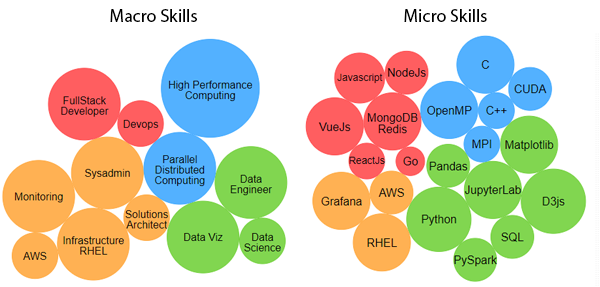
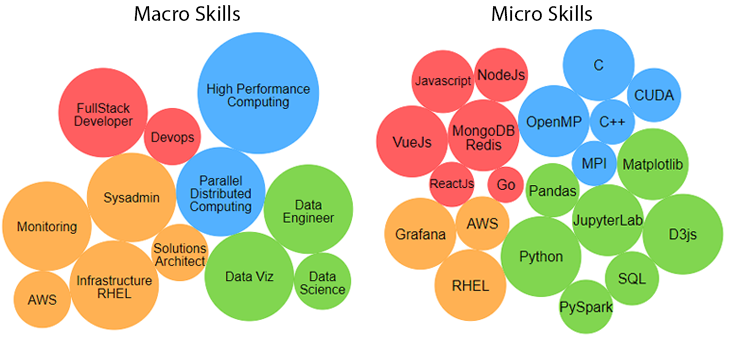
sync2

diff --git a/assets/static/d3js/crashlaker-micro-skills.js b/assets/static/d3js/crashlaker-micro-skills.js
@@ -1,54 +1,58 @@
 (function (){
-var width = 500, height = 400
+var width = 365, height = 300
 var svg = d3.select('#micro-skills')
             .attr('width', width)
             .attr('height', height)
+            //.style('border', '1px solid')
 
+var x = d3.scaleLinear().domain([0,500]).range([0,365])
+var ratio = 365/500
 var numNodes = 100
 var green = '#73d13d'
 var orange = '#ffa940'
 var red = '#ff4d4f'
 var blue = '#40a9ff'
+var d_fontsize = 13
 var nodes = [
     //{radius: 55, color: green, label: "Data Viz", group: 1}, // radius, color, text
     //{radius: 55, color: green, label: 'Data\nEngineer', group: 1}, // radius, color, text
     //{radius: 35, color: green, label: 'Data\nScience', group: 1}, // radius, color, text
-    {radius: 30, color: green, label: 'PySpark', group: 1}, // radius, color, text
-    {radius: 30, color: green, label: 'Pandas', group: 1}, // radius, color, text
-    {radius: 30, color: green, label: 'SQL', group: 1}, // radius, color, text
-    {radius: 40, color: green, label: 'JupyterLab', group: 1}, // radius, color, text
-    {radius: 40, color: green, label: 'Matplotlib', group: 1}, // radius, color, text
-    {radius: 45, color: green, label: 'Python', group: 1}, // radius, color, text
-    {radius: 45, color: green, label: 'D3js', group: 1}, // radius, color, text
+    {radius: ratio*30, color: green, label: 'PySpark', group: 1}, // radius, color, text
+    {radius: ratio*30, color: green, label: 'Pandas', group: 1}, // radius, color, text
+    {radius: ratio*30, color: green, label: 'SQL', group: 1}, // radius, color, text
+    {radius: ratio*40, color: green, label: 'JupyterLab', group: 1}, // radius, color, text
+    {radius: ratio*40, color: green, label: 'Matplotlib', group: 1}, // radius, color, text
+    {radius: ratio*45, color: green, label: 'Python', group: 1}, // radius, color, text
+    {radius: ratio*45, color: green, label: 'D3js', group: 1}, // radius, color, text
     //{radius: 35, color: orange, label: 'Solutions\nArchitect', group: 2}, // radius, color, text
     //{radius: 55, color: orange, label: 'Infrastructure\nRHEL', group: 2}, // radius, color, text
     //{radius: 55, color: orange, label: 'Sysadmin', group: 2}, // radius, color, text
     //{radius: 35, color: orange, label: 'AWS', group: 2}, // radius, color, text
-    {radius: 40, color: orange, label: 'RHEL', group: 2}, // radius, color, text
-    {radius: 30, color: orange, label: 'AWS', group: 2}, // radius, color, text
-    {radius: 40, color: orange, label: 'Grafana', group: 2}, // radius, color, text
+    {radius: ratio*40, color: orange, label: 'RHEL', group: 2}, // radius, color, text
+    {radius: ratio*30, color: orange, label: 'AWS', group: 2}, // radius, color, text
+    {radius: ratio*40, color: orange, label: 'Grafana', group: 2}, // radius, color, text
     //{radius: 55, color: red, label: 'FullStack\nDeveloper', group: 3}, // radius, color, text
     //{radius: 35, color: red, label: 'Devops', group: 3}, // radius, color, text
-    {radius: 20, color: red, label: 'Go', group: 3}, // radius, color, text
-    {radius: 35, fontsize: 14, color: red, label: 'Javascript', group: 3}, // radius, color, text
-    {radius: 25, fontsize: 14, color: red, label: 'ReactJs', group: 3}, // radius, color, text
-    {radius: 40, color: red, label: 'VueJs', group: 3}, // radius, color, text
-    {radius: 30, color: red, label: 'NodeJs', group: 3}, // radius, color, text
-    {radius: 40, color: red, label: 'MongoDB\nRedis', group: 3}, // radius, color, text
+    {radius: ratio*20, color: red, label: 'Go', group: 3}, // radius, color, text
+    {radius: ratio*35, fontsize: 12, color: red, label: 'Javascript', group: 3}, // radius, color, text
+    {radius: ratio*25, fontsize: 11, color: red, label: 'ReactJs', group: 3}, // radius, color, text
+    {radius: ratio*40, color: red, label: 'VueJs', group: 3}, // radius, color, text
+    {radius: ratio*30, color: red, label: 'NodeJs', group: 3}, // radius, color, text
+    {radius: ratio*40, color: red, label: 'MongoDB\nRedis', group: 3}, // radius, color, text
     //{radius: 55, color: blue, label: 'Parallel\nDistributed\nComputing', group: 4}, // radius, color, text
     //{radius: 75, color: blue, label: 'High Performance\nComputing', group: 4}, // radius, color, text
-    {radius: 40, color: blue, label: 'C', group: 4}, // radius, color, text
-    {radius: 25, color: blue, label: 'C++', group: 4}, // radius, color, text
-    {radius: 25, color: blue, label: 'MPI', group: 4}, // radius, color, text
-    {radius: 40, color: blue, label: 'OpenMP', group: 4}, // radius, color, text
-    {radius: 30, color: blue, label: 'CUDA', group: 4}, // radius, color, text
+    {radius: ratio*40, color: blue, label: 'C', group: 4}, // radius, color, text
+    {radius: ratio*25, color: blue, label: 'C++', group: 4}, // radius, color, text
+    {radius: ratio*25, color: blue, label: 'MPI', group: 4}, // radius, color, text
+    {radius: ratio*40, color: blue, label: 'OpenMP', group: 4}, // radius, color, text
+    {radius: ratio*30, color: blue, label: 'CUDA', group: 4}, // radius, color, text
 ]
 
 var group = {
-    1: [320,250], // data viz
-    2: [160,270], // infrastructure
-    3: [160,140], // development
-    4: [300,130], // hpc
+    1: [x(320),200], // data viz
+    2: [x(160),220], // infrastructure
+    3: [x(160),90], // development
+    4: [x(300),90], // hpc
 }
 
 
@@ -101,17 +105,17 @@ function ticked() {
         let v = d3.select(this)
                     .append('text')
                     .attr('x', 0)
-                    .attr('y', -10)
+                    .attr('y', -10*ratio)
                     .style('text-anchor', 'middle')
         let strarr = (d.label.includes('\n')) ? d.label.split('\n') : [d.label]
         if (strarr.length > 1)
-            v.attr('y', -8*(strarr.length))
+            v.attr('y', -(d_fontsize/2)*(strarr.length))
         //console.log(d)
         for (let part of strarr){
             v.append('tspan')
                 .attr('x', 0)
                 .attr('dy', '1em')
-                .attr('style', 'font: '+((d.fontsize != undefined) ? d.fontsize+'px sans-serif;' : '16px sans-serif'))
+                .attr('style', 'font: '+((d.fontsize != undefined) ? d.fontsize+'px sans-serif;' : d_fontsize+'px sans-serif'))
                 .text(part)
         }
     })

diff --git a/assets/static/d3js/crashlaker-macro-skills.js b/assets/static/d3js/crashlaker-macro-skills.js
@@ -1,34 +1,40 @@
 (function (){
-var width = 500, height = 400
+var width = 365, height = 300
 var svg = d3.select('#macro-skills')
             .attr('width', width)
             .attr('height', height)
+
+var x = d3.scaleLinear().domain([0,500]).range([0,365])
+var y = d3.scaleLinear().domain([0,500]).range([0,365])
+
+var ratio = 365/500
 
 var numNodes = 100
 var green = '#73d13d'
 var orange = '#ffa940'
 var red = '#ff4d4f'
 var blue = '#40a9ff'
+var d_fontsize = 14
 var nodes = [
-    {radius: 55, color: green, label: "Data Viz", group: 1}, // radius, color, text
-    {radius: 55, color: green, label: 'Data\nEngineer', group: 1}, // radius, color, text
-    {radius: 35, color: green, label: 'Data\nScience', group: 1}, // radius, color, text
-    {radius: 35, color: orange, label: 'Solutions\nArchitect', group: 2}, // radius, color, text
-    {radius: 55, color: orange, label: 'Infrastructure\nRHEL', group: 2}, // radius, color, text
-    {radius: 55, color: orange, label: 'Sysadmin', group: 2}, // radius, color, text
-    {radius: 55, color: orange, label: 'Monitoring', group: 2}, // radius, color, text
-    {radius: 35, color: orange, label: 'AWS', group: 2}, // radius, color, text
-    {radius: 55, color: red, label: 'FullStack\nDeveloper', group: 3}, // radius, color, text
-    {radius: 35, color: red, label: 'Devops', group: 3}, // radius, color, text
-    {radius: 55, color: blue, label: 'Parallel\nDistributed\nComputing', group: 4}, // radius, color, text
-    {radius: 75, color: blue, label: 'High Performance\nComputing', group: 4}, // radius, color, text
+    {radius: ratio*55, color: green, label: "Data Viz", group: 1}, // radius, color, text
+    {radius: ratio*55, color: green, label: 'Data\nEngineer', group: 1}, // radius, color, text
+    {radius: ratio*35, color: green, label: 'Data\nScience', group: 1}, // radius, color, text
+    {radius: ratio*35, fontsize: 12, color: orange, label: 'Solutions\nArchitect', group: 2}, // radius, color, text
+    {radius: ratio*55, color: orange, label: 'Infrastructure\nRHEL', group: 2}, // radius, color, text
+    {radius: ratio*55, color: orange, label: 'Sysadmin', group: 2}, // radius, color, text
+    {radius: ratio*55, color: orange, label: 'Monitoring', group: 2}, // radius, color, text
+    {radius: ratio*35, color: orange, label: 'AWS', group: 2}, // radius, color, text
+    {radius: ratio*55, color: red, label: 'FullStack\nDeveloper', group: 3}, // radius, color, text
+    {radius: ratio*35, color: red, label: 'Devops', group: 3}, // radius, color, text
+    {radius: ratio*55, color: blue, label: 'Parallel\nDistributed\nComputing', group: 4}, // radius, color, text
+    {radius: ratio*75, color: blue, label: 'High Performance\nComputing', group: 4}, // radius, color, text
 ]
 
 var group = {
-    1: [340,270], // data viz
-    2: [130,270], // infrastructure
-    3: [160,140], // dev
-    4: [300,140], // hpc
+    1: [x(340),220], // data viz
+    2: [x(130),200], // infrastructure
+    3: [x(160),90], // dev
+    4: [x(300),90], // hpc
 }
 
 
@@ -81,16 +87,18 @@ function ticked() {
         let v = d3.select(this)
                     .append('text')
                     .attr('x', 0)
-                    .attr('y', -10)
+                    .attr('y', -10*ratio)
                     .style('text-anchor', 'middle')
-                    .style('font', '16px sans-serif')
+                    .style('font', d_fontsize+'px sans-serif')
         let strarr = (d.label.includes('\n')) ? d.label.split('\n') : [d.label]
+        let fontsize = (d.fontsize != undefined) ? d.fontsize : d_fontsize
         if (strarr.length > 1)
-            v.attr('y', -8*(strarr.length))
+            v.attr('y', -(fontsize/2)*(strarr.length))
         for (let part of strarr){
             v.append('tspan')
                 .attr('x', 0)
                 .attr('dy', '1em')
+                .attr('style', 'font: '+fontsize+'px sans-serif')
                 .text(part)
         }
     })

diff --git a/about.html b/about.html
@@ -1,7 +1,7 @@
 ---
 layout: page
 title: About
-permalink: /about/
+permalink: /about
 ---
 
 
@@ -10,18 +10,25 @@ permalink: /about/
 
 <!--<svg id="front-panel"></svg>-->
 <!--
-<h3>Macro Skills</h3> 
-<svg id="macro-skills"></svg>
+<table>
+    <tr>
+        <td style="font-weight:400;font:16px sans-serif; text-align:center;">Macro Skills</td>
+        <td style="font-weight:400;font:16px sans-serif; text-align:center;">Micro Skills</td>
+    </tr>
+    <tr>
+        <td>
+            <svg id="macro-skills"></svg>
+        </td>
+        <td>
+            <svg id="micro-skills"></svg>
+        </td>
+    </tr>
+</table>
 
-<h3>Tool Skills</h3> 
-<svg id="micro-skills"></svg>
--->
-
-<!--<script src="/assets/static/d3js/crashlaker-front.js"></script>-->
-<!--
 <script type="text/javascript" src="//unpkg.com/d3@5.7.0/dist/d3.js"></script> 
 <script src="/assets/static/d3js/crashlaker-macro-skills.js"></script>
 <script src="/assets/static/d3js/crashlaker-micro-skills.js"></script>
 -->
 
+<!--<script src="/assets/static/d3js/crashlaker-front.js"></script>-->
 

diff --git a/index.html b/index.html
@@ -6,6 +6,25 @@ layout: default
 <div id="home">
   <h3>Blog</h3>
   <hr />
+    <table>
+        <tr>
+            <td style="font:16px sans-serif; text-align:center;font-weight:bold;">Macro Skills</td>
+            <td style="font:16px sans-serif; text-align:center;font-weight:bold;">Micro Skills</td>
+        </tr>
+        <tr>
+            <td>
+                <svg id="macro-skills"></svg>
+            </td>
+            <td>
+                <svg id="micro-skills"></svg>
+            </td>
+        </tr>
+    </table>
+
+    <!--<script src="/assets/static/d3js/crashlaker-front.js"></script>-->
+    <script type="text/javascript" src="//unpkg.com/d3@5.7.0/dist/d3.js"></script> 
+    <script src="/assets/static/d3js/crashlaker-macro-skills.js"></script>
+    <script src="/assets/static/d3js/crashlaker-micro-skills.js"></script>
   <ol class="posts">
     {% for post in paginator.posts %}
       <li><a href="{{ post.url }}">{{ post.title }}</a> &raquo; <i><span>{{ post.date | date_to_string }}</span></i></li>
